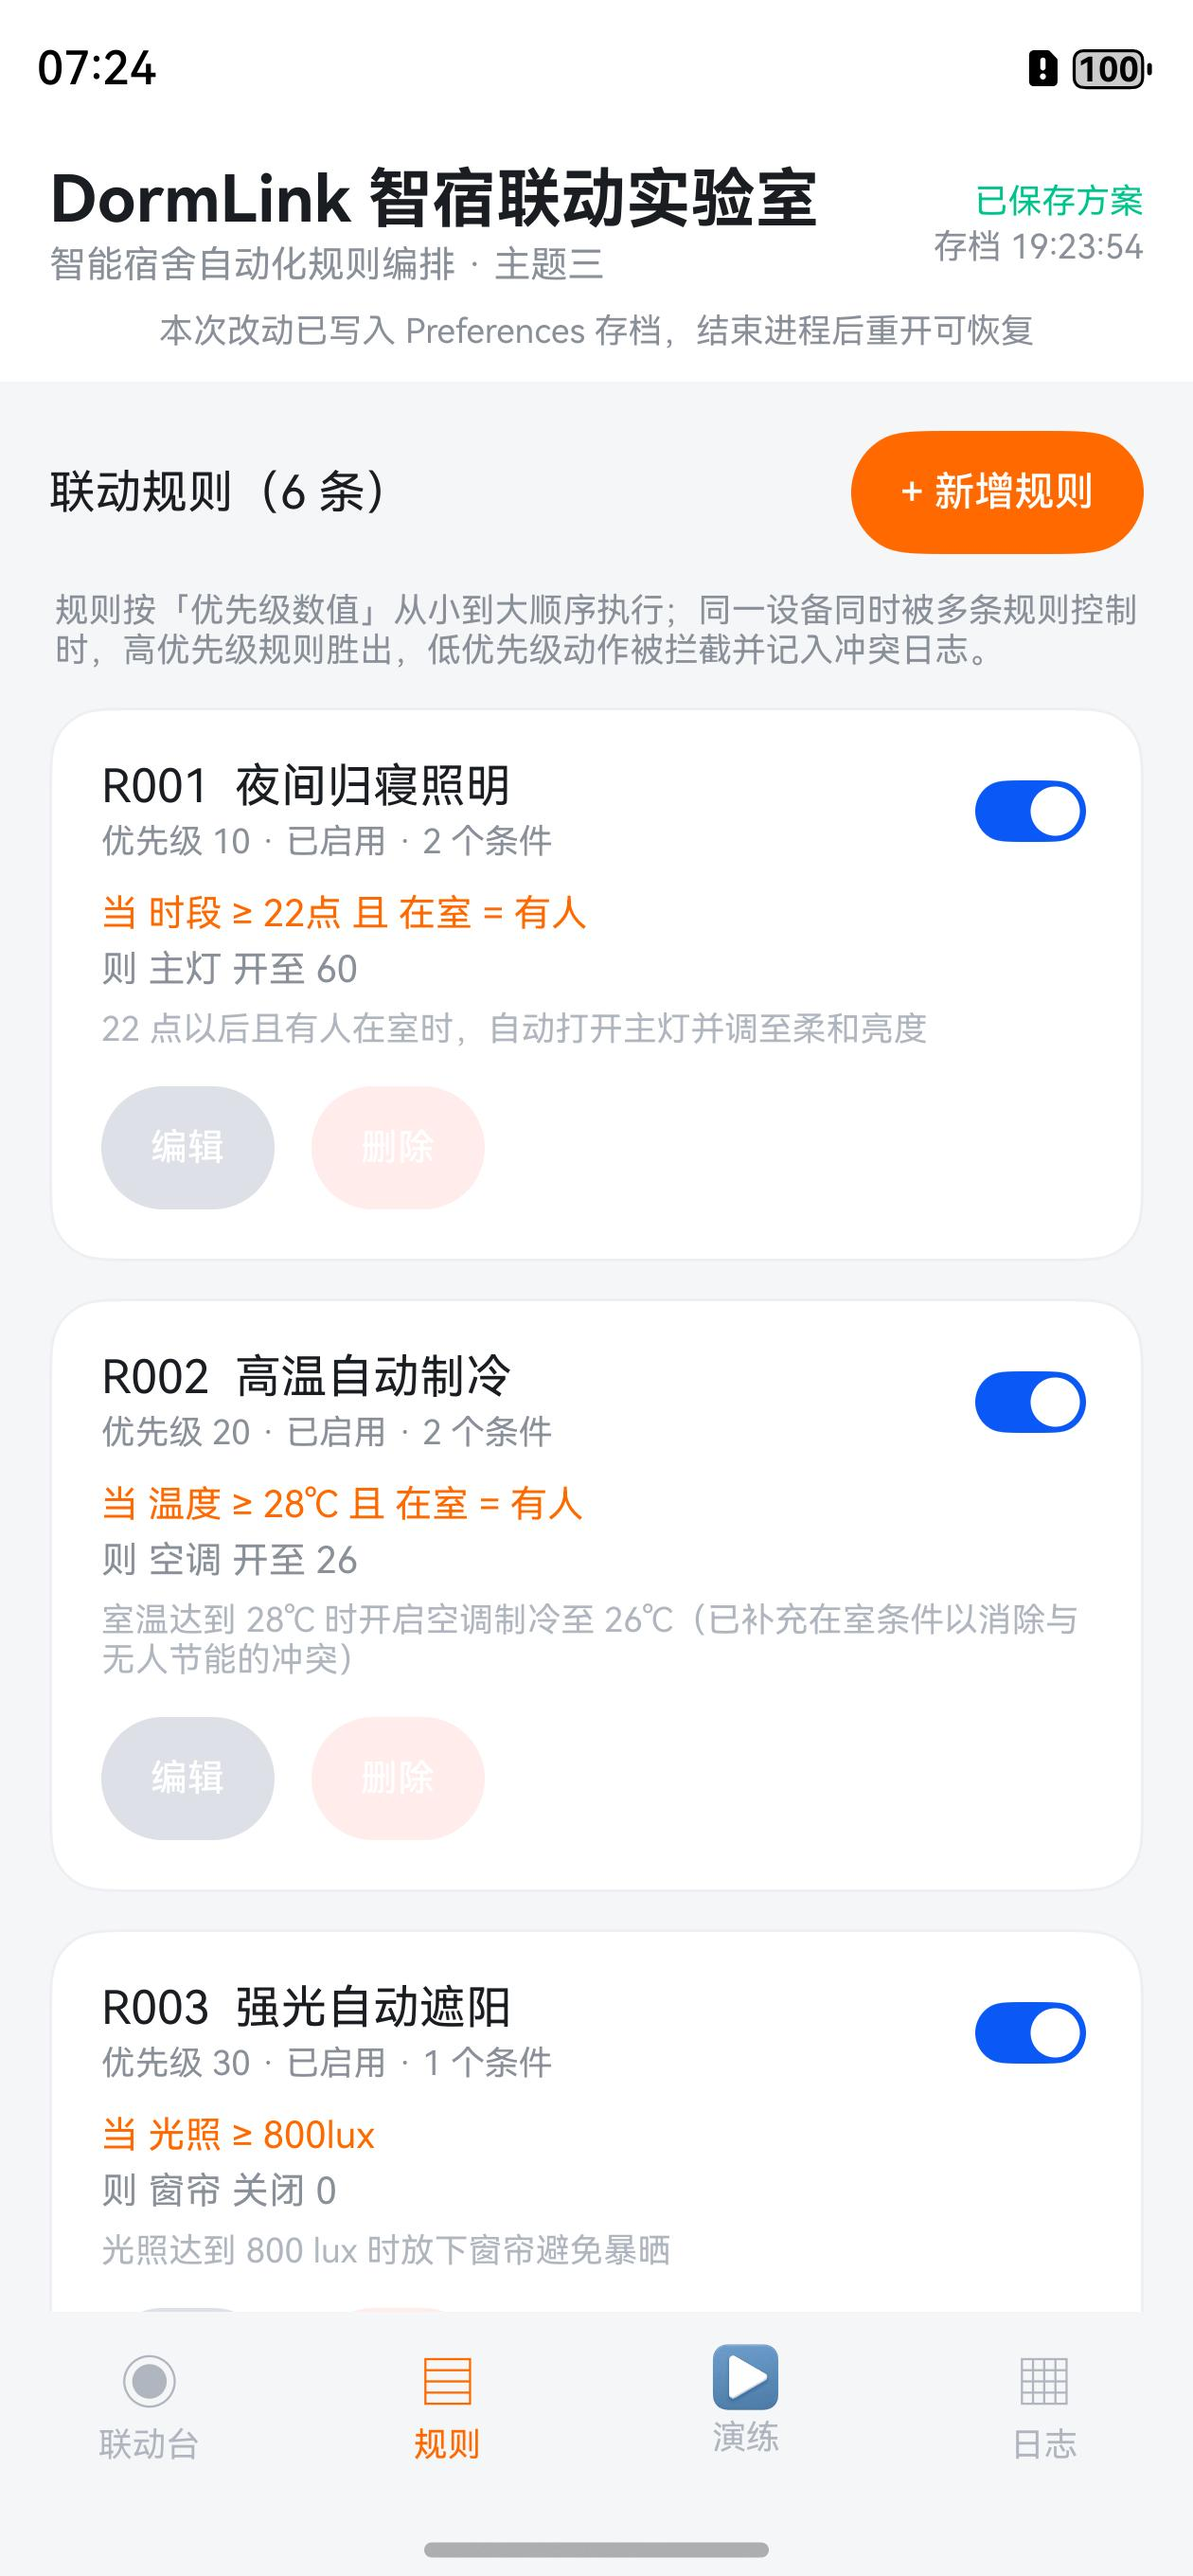
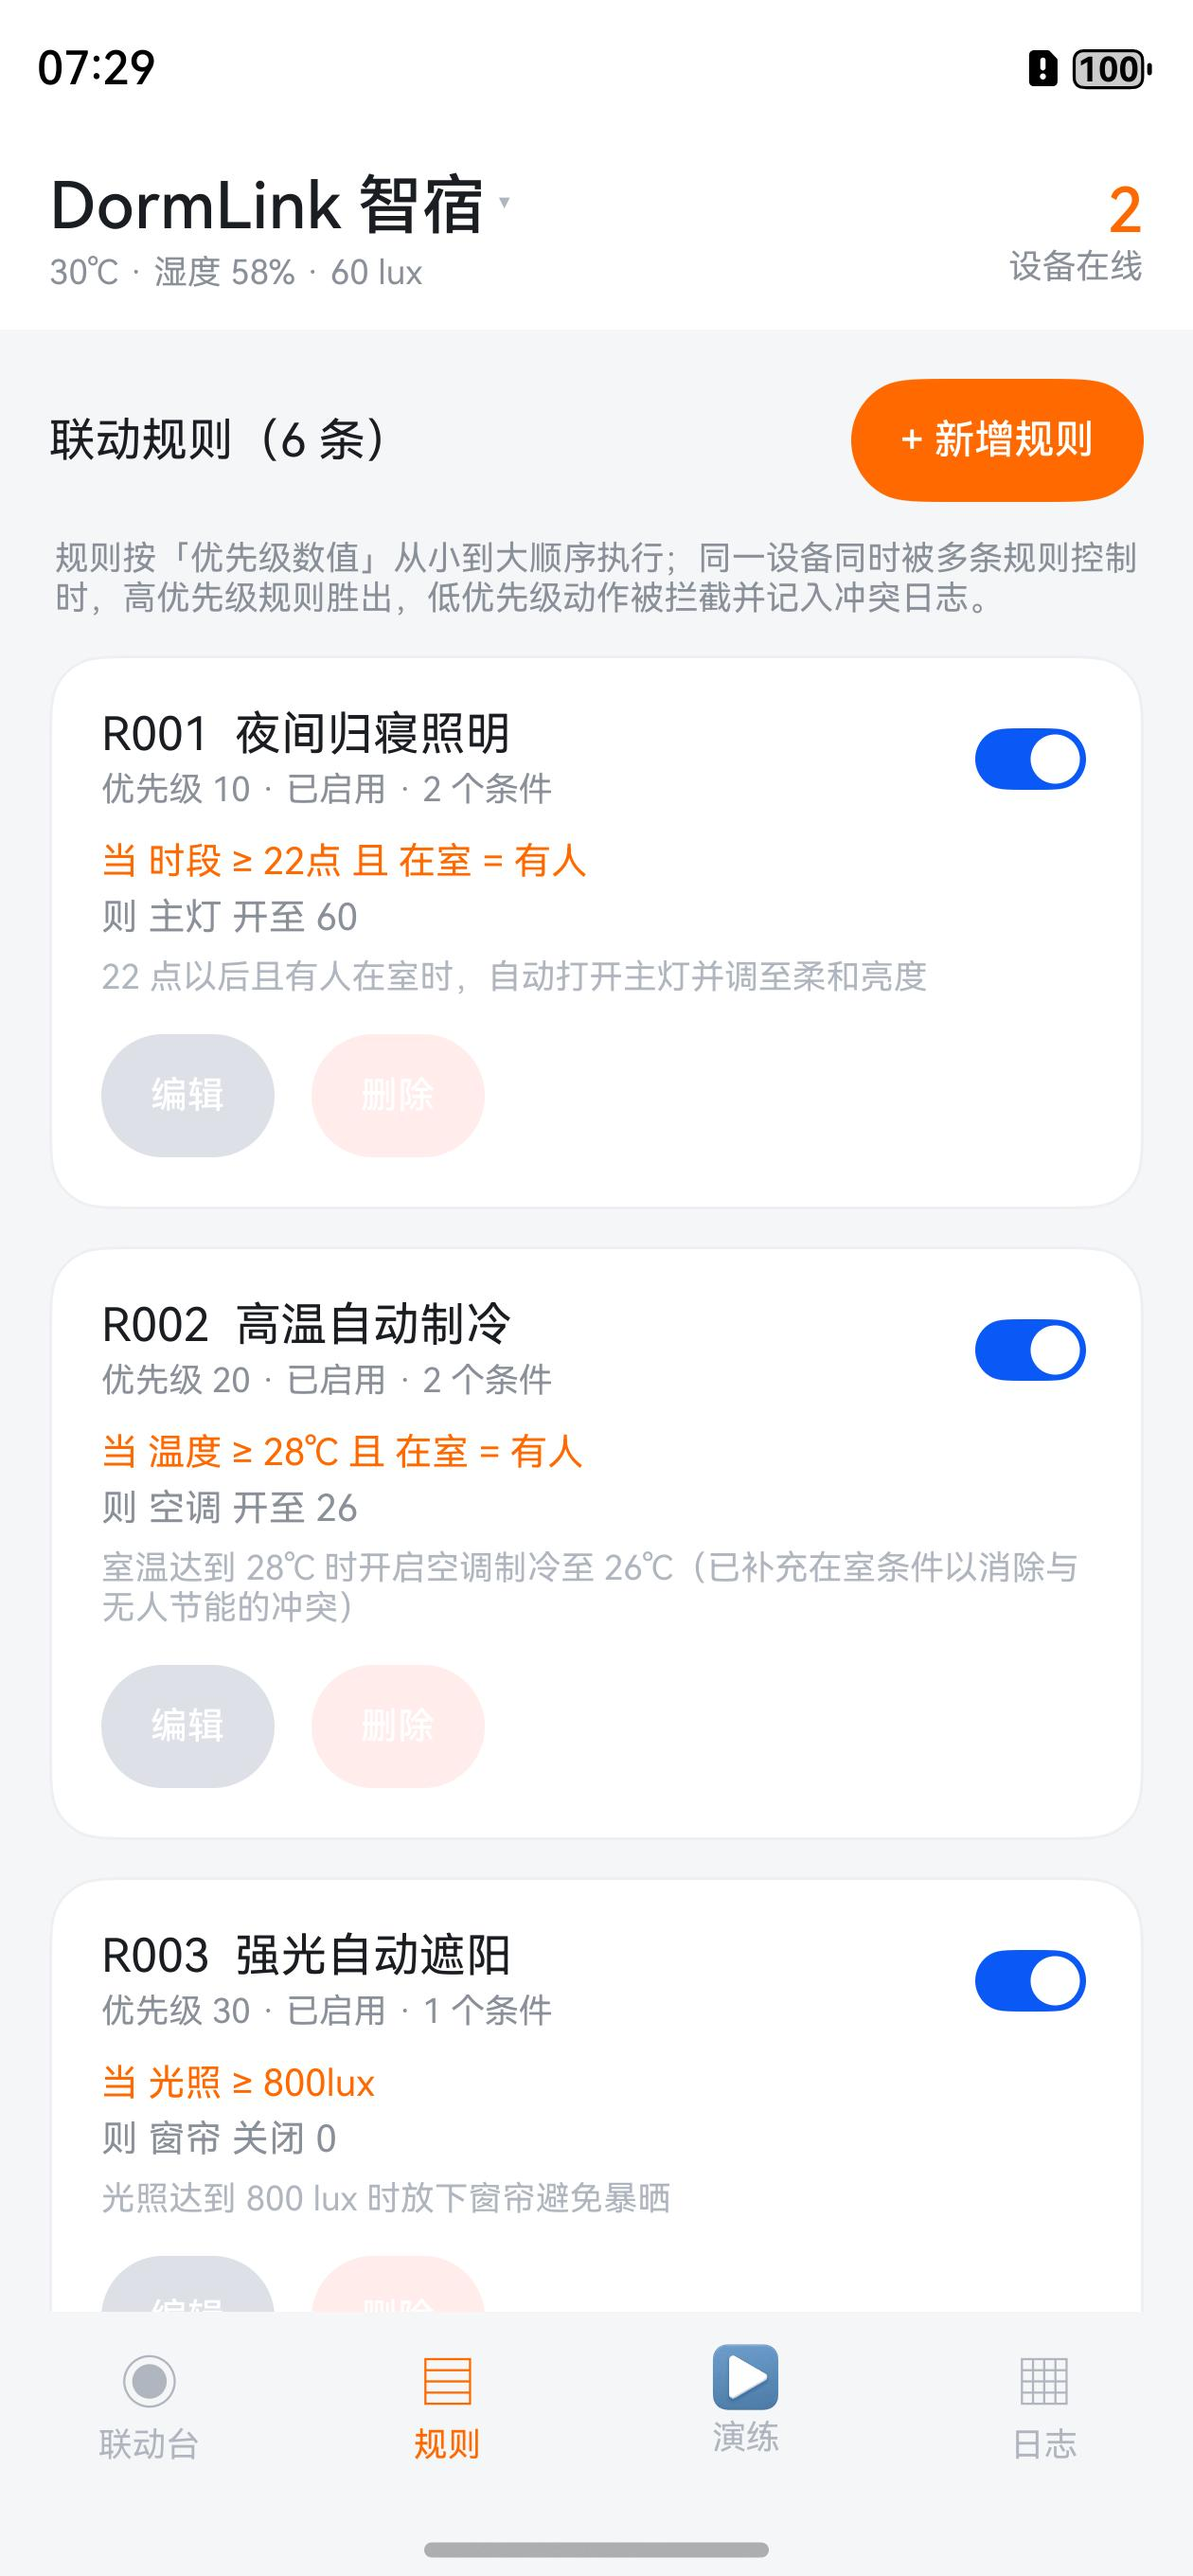
feat: 首页改为米家式「家庭/环境/设备在线 + 快捷场景横滑」结构

diff --git a/docs/设计规范.md b/docs/设计规范.md
@@ -153,6 +153,20 @@
 - 卡内结构：左侧圆形图标底（44px，开启 `accentSubtle` 底 + `brand` 字，关闭 `surfaceAlt` 底 + `textTertiary` 字）→ 右上「开/关」徽章（开启 `success` 底白字，关闭 `surfaceAlt` 底灰字）→ 设备名 `title` → 状态 `caption`（开启 `success` 色）→ 开启时底部 3px 橙色进度条。
 - 图标用**中文单字**（灯/冷/帘/风/湿），不用彩色 emoji，保证风格统一。
 
+### 6.2.2 顶部栏（米家式）
+
+- 左侧：家庭名（`display` 21px Medium）+ 下拉箭头（`label` 灰），下方一行环境摘要（`caption`，温度/湿度/光照）。
+- 右侧：设备在线数（20px Medium，`brand` 橙色）+ 「设备在线」标签（`caption` 灰）。
+- 底色 `surfaceHigh`（纯白），左右 `lg`、上 `lg`、下 `md`。
+- 顶部栏不放存档提示等运维信息，这类信息归入日志页。
+
+### 6.2.3 快捷场景卡（横向滚动）
+
+- 容器 `Scroll` + `Row(space: md)`，`scrollable(ScrollDirection.Horizontal)`，隐藏滚动条。
+- 单卡宽 116，内边距 `md`，圆角 `lg`，底色 `surface`。
+- 卡内：40px 圆形图标底（`accentSubtle` 底 + `brand` 中文字：月/日/晨/夜）→ 场景名（`label`）→ 「S1 · 23 点」（`caption` 灰）。
+- 点击直接载入该场景并演练，与演练页的完整场景卡复用同一份 `SCENE_PRESETS`。
+
 ### 6.3 状态标签（Tag）
 
 - 圆角 pill，内边距 3/10，字号 `label`。
